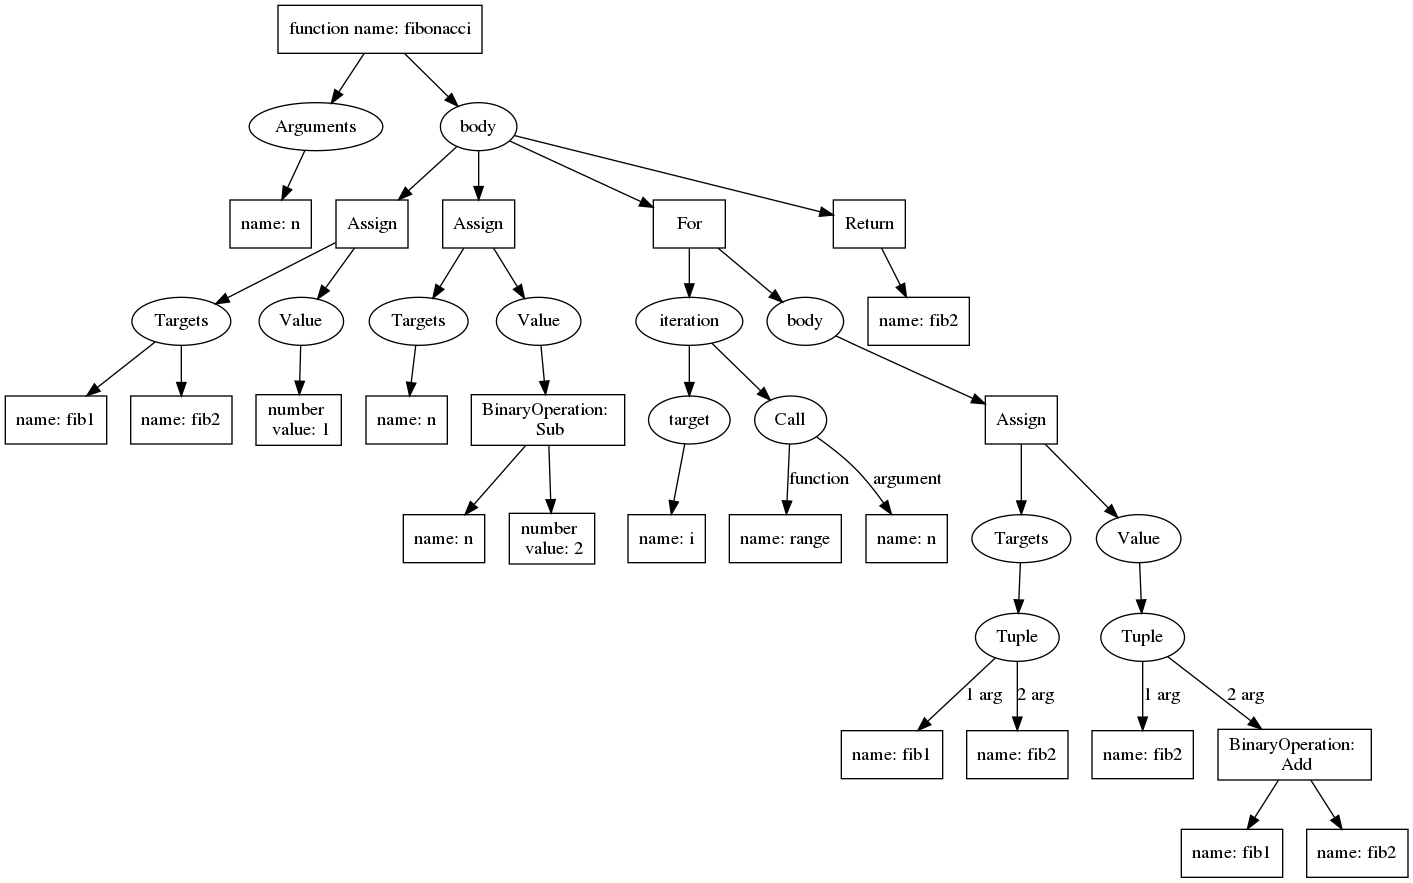
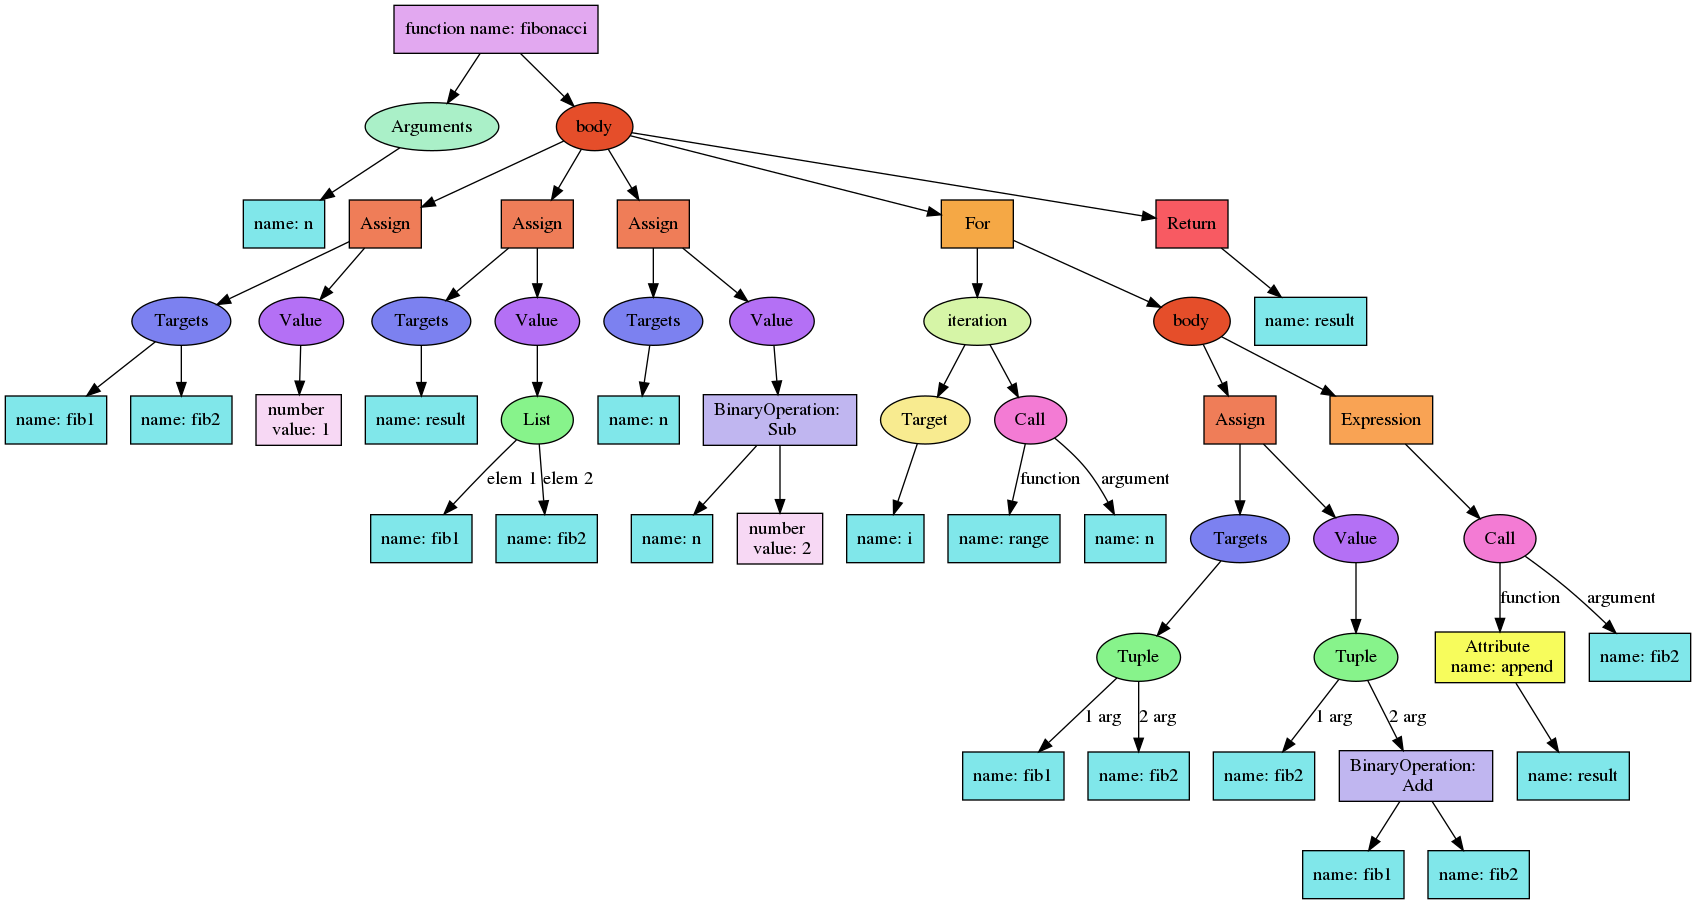
Add nodes colors

diff --git a/hw_1/main.py b/hw_1/main.py
@@ -5,6 +5,17 @@ import networkx
 
 def fibonacci(n):
     fib1 = fib2 = 1
+    result = [fib1, fib2]
+    n = n - 2
+    for i in range(n):
+        fib1, fib2 = fib2, fib1 + fib2
+        result.append(fib2)
+    return result
+
+
+def fibonacci_series(n):
+
+    fib1 = fib2 = 1
     n = n - 2
     for i in range(n):
         fib1, fib2 = fib2, fib1 + fib2
@@ -21,16 +32,16 @@ class ASTVisitor(ast.NodeVisitor):
         self.visit(node.body[0])
 
     def visit_args(self, arguments):
-        self.graph.add_node("arguments", label="Arguments")
+        self.graph.add_node("arguments", label="Arguments", fillcolor='#AAF0C8', style='filled')
         for arg in arguments:
-            self.graph.add_node(str(arg), label=f'name: {arg.arg}', shape='s')
+            self.graph.add_node(str(arg), label=f'name: {arg.arg}', shape='s', fillcolor='#80E7EA', style='filled')
             self.graph.add_edge("arguments", str(arg))
         return "arguments"
 
     def visit_targets(self, node):
         targets = f'TARGETS {self.names["TARGETS"]}'
         self.names["TARGETS"] += 1
-        self.graph.add_node(targets, label="Targets")
+        self.graph.add_node(targets, label="Targets", fillcolor='#7C81F0', style='filled')
         for tar in node.targets:
             self.graph.add_edge(targets, self.visit(tar))
         return targets
@@ -38,47 +49,48 @@ class ASTVisitor(ast.NodeVisitor):
     def visit_value(self, node):
         value = f'VALUE {self.names["VALUE"]}'
         self.names["VALUE"] += 1
-        self.graph.add_node(value, label="Value")
+        # F0BB7F
+        self.graph.add_node(value, label="Value", fillcolor='#B470F5', style='filled')
         self.graph.add_edge(value, self.visit(node.value))
         return value
 
     def visit_body(self, node):
         body = f'BODY {self.names["BODY"]}'
         self.names["BODY"] += 1
-        self.graph.add_node(body, label="body")
+        self.graph.add_node(body, label="body", fillcolor='#E54E2A', style='filled')
         for item in node.body:
             self.graph.add_edge(body, self.visit(item))
         return body
 
     def visit_target(self, node):
         target = f'TARGET {self.names["TARGET"]}'
-        self.graph.add_node(target, label="target")
+        self.graph.add_node(target, label="Target", fillcolor='#F8EB90', style='filled')
         self.graph.add_edge(target, self.visit(node.target))
         return target
 
     def visit_Assign(self, node):
-        self.graph.add_node(str(node), label="Assign", shape='s')
+        self.graph.add_node(str(node), label="Assign", shape='s', fillcolor='#EF7D58', style='filled')
         self.graph.add_edge(str(node), self.visit_targets(node))
         self.graph.add_edge(str(node), self.visit_value(node))
         return str(node)
 
     def visit_Name(self, node):
-        self.graph.add_node(str(node), label=f'name: {node.id}', shape='s')
+        self.graph.add_node(str(node), label=f'name: {node.id}', shape='s', fillcolor='#80E7EA', style='filled')
         return str(node)
 
     def visit_Num(self, node):
-        self.graph.add_node(str(node), label=f'number \n value: {str(node.n)}', shape='s')
+        self.graph.add_node(str(node), label=f'number \n value: {str(node.n)}', shape='s', fillcolor='#F7D8F4', style='filled')
         return str(node)
 
     def visit_BinOp(self, node):
-        self.graph.add_node(str(node), label=f'BinaryOperation: \n {node.op.__class__.__name__}', shape='s')
+        self.graph.add_node(str(node), label=f'BinaryOperation: \n {node.op.__class__.__name__}', shape='s', fillcolor='#C0B6F0', style='filled')
         self.graph.add_edge(str(node), self.visit(node.left))
         self.graph.add_edge(str(node), self.visit(node.right))
         return str(node)
 
     def visit_For(self, node):
-        self.graph.add_node(str(node), label="For", shape='s')
-        self.graph.add_node("iteration", label="iteration")
+        self.graph.add_node(str(node), label="For", shape='s', fillcolor='#F5A845', style='filled')
+        self.graph.add_node("iteration", label="iteration", fillcolor='#D6F5A7', style='filled')
         self.graph.add_edge(str(node), "iteration")
         self.graph.add_edge("iteration", self.visit_target(node))
         self.graph.add_edge("iteration", self.visit(node.iter))
@@ -86,7 +98,7 @@ class ASTVisitor(ast.NodeVisitor):
         return str(node)
 
     def visit_Call(self, node):
-        self.graph.add_node(str(node), label="Call")
+        self.graph.add_node(str(node), label="Call", fillcolor='#F37BD4', style='filled')
         self.graph.add_edge(str(node), self.visit(node.func), label="function")
         for item in node.args:
             self.graph.add_edge(str(node), self.visit(item), label="argument")
@@ -95,24 +107,43 @@ class ASTVisitor(ast.NodeVisitor):
     def visit_Tuple(self, node):
         tuple = f'TUPLE {self.names["TUPLE"]}'
         self.names["TUPLE"] += 1
-        self.graph.add_node(tuple, label="Tuple")
+        self.graph.add_node(tuple, label="Tuple", fillcolor='#87F38B', style='filled')
         for num, item in enumerate(node.elts):
             self.graph.add_edge(tuple, self.visit(item), label=f'{num + 1} arg')
         return tuple
 
+    def visit_Expr(self, node):
+        self.graph.add_node(str(node), label="Expression", shape='s', fillcolor='#F9A354', style='filled')
+        self.graph.add_edge(str(node), self.visit(node.value))
+        return str(node)
+
+    def visit_Attribute(self, node):
+        self.graph.add_node(str(node), label=f'Attribute \n name: {node.attr}', shape='s', fillcolor='#F7FC5C', style='filled')
+        self.graph.add_edge(str(node), self.visit(node.value))
+        return str(node)
+
+    def visit_List(self, node):
+        self.graph.add_node(str(node), label="List", fillcolor='#87F38B', style='filled')
+        for num, item in enumerate(node.elts):
+            self.graph.add_edge(str(node), self.visit(item), label=f'elem {num + 1}')
+        return str(node)
+
+
     def visit_FunctionDef(self, node):
-        self.graph.add_node(str(node), label=f'function name: {node.name}', shape='s')
+        self.graph.add_node(str(node), label=f'function name: {node.name}', shape='s', fillcolor='#E2A8F0', style='filled')
         self.graph.add_edge(str(node), self.visit_args(node.args.args))
         self.graph.add_edge(str(node), self.visit_body(node))
+        return str(node)
 
     def visit_Return(self, node):
-        self.graph.add_node(str(node), label="Return", shape='s')
+        self.graph.add_node(str(node), label="Return", shape='s', fillcolor='#F85A62', style='filled')
         self.graph.add_edge(str(node), self.visit(node.value))
         return str(node)
 
 
 if __name__ == '__main__':
     ast_object = ast.parse(inspect.getsource(fibonacci))
+    print(ast.dump(ast_object))
     p = ASTVisitor()
     p.visit(ast_object)
     networkx.drawing.nx_pydot.to_pydot(p.graph).write_png("artifacts/ast.png")
